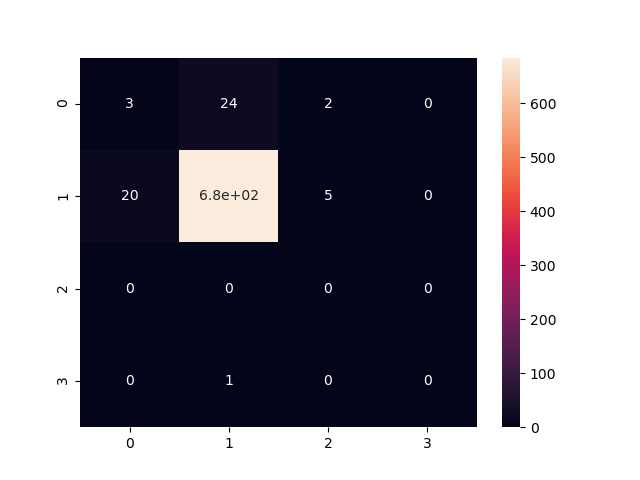
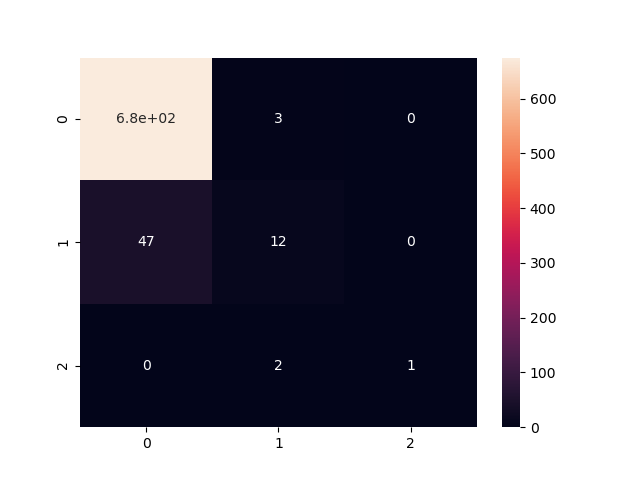
before release 4

diff --git a/application/plotlydash/dataDownload.py b/application/plotlydash/dataDownload.py
@@ -623,7 +623,7 @@ def dataDownload(server):
                 elif len(categories) == len(cfn_matrix) + 1:
                     categories = categories[:-1]
                 #print (categories)
-                heatmap_fig = ff.create_annotated_heatmap(cfn_matrix, x = categories, y = categories[::-1])
+                heatmap_fig = ff.create_annotated_heatmap(cfn_matrix.T, x = categories, y = categories)
                 layout = html.Div(children=[
                     html.P(
                         html.Label(info)
